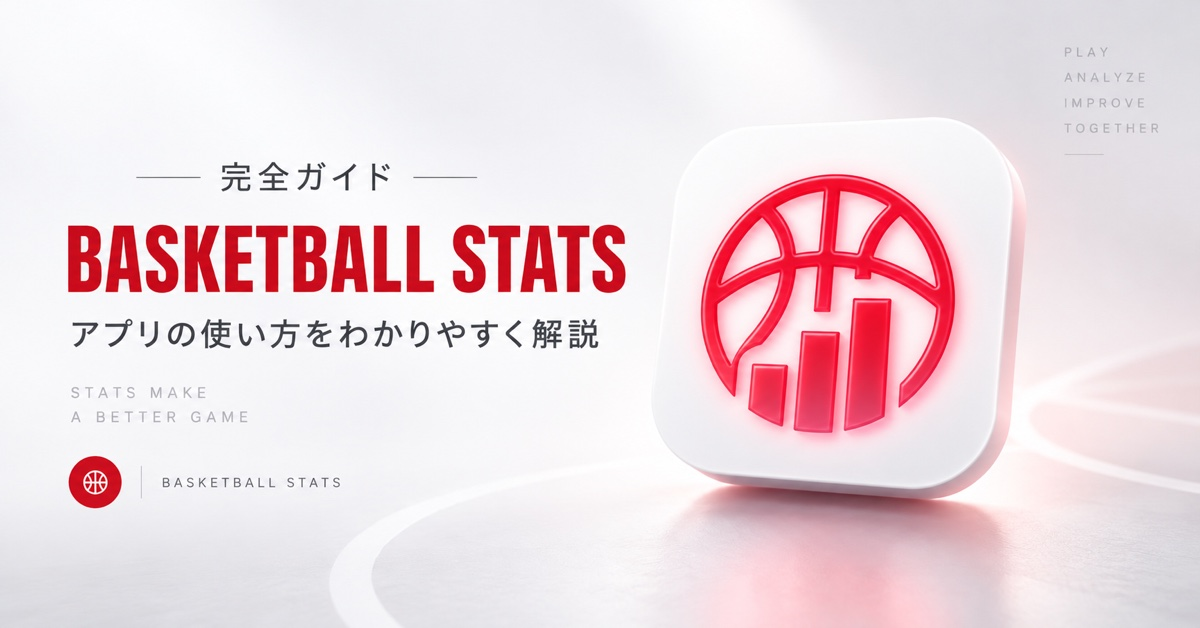
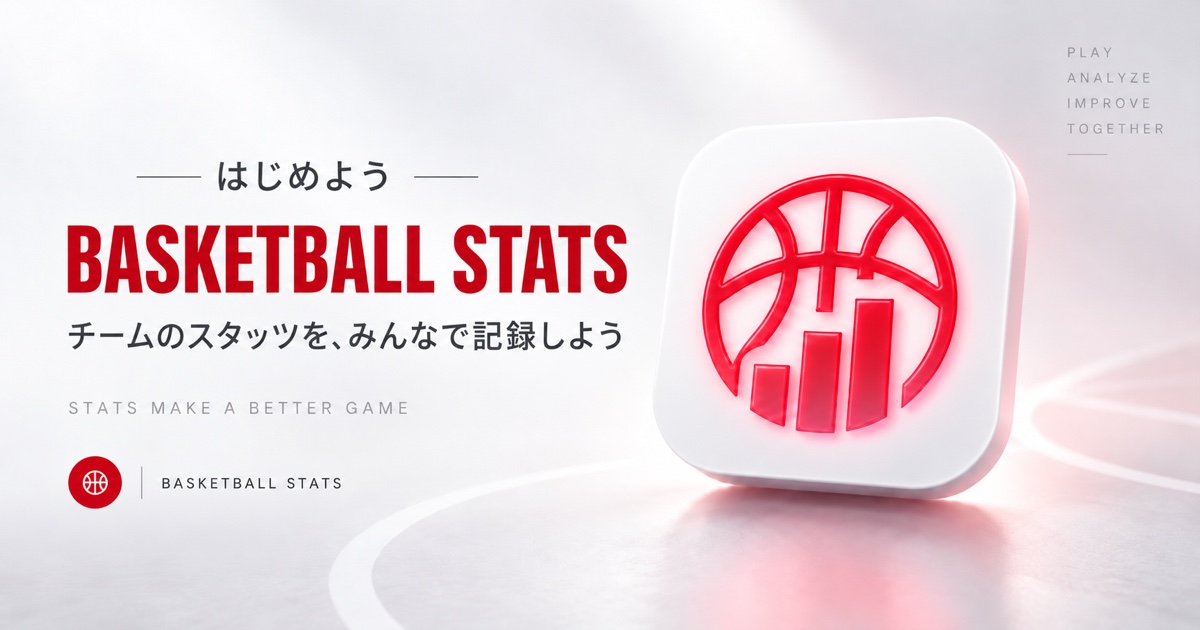
共有プレビュー画像を招待用/はじめよう用に差し替え、モバイルで出ない問題を修正
- 画像URLを新しい名前にして、LINE等に残った誤ったキャッシュを回避
- 拡張子付きのパスはindex.htmlに振り替えない(画像未配置時にHTMLが返らないように)
- トップページにog:urlを追加

diff --git a/invite.html b/invite.html
@@ -19,15 +19,15 @@
     <meta property="og:locale" content="ja_JP" />
     <meta property="og:title" content="チームに招待されています｜BASKETBALL STATS" />
     <meta property="og:description" content="リンクを開くとチームに参加できます。試合や練習のスタッツを、チームのみんなで一緒に記録しよう。" />
-    <meta property="og:image" content="https://basketball-stats-mu.vercel.app/og/og.jpg" />
+    <meta property="og:image" content="https://basketball-stats-mu.vercel.app/og/og-invite-v2.jpg" />
     <meta property="og:image:type" content="image/jpeg" />
     <meta property="og:image:width" content="1200" />
-    <meta property="og:image:height" content="628" />
-    <meta property="og:image:alt" content="BASKETBALL STATS チーム招待" />
+    <meta property="og:image:height" content="630" />
+    <meta property="og:image:alt" content="BASKETBALL STATS チーム招待 タップしてチームに参加しよう" />
     <meta name="twitter:card" content="summary_large_image" />
     <meta name="twitter:title" content="チームに招待されています｜BASKETBALL STATS" />
     <meta name="twitter:description" content="リンクを開くとチームに参加できます。試合や練習のスタッツを、チームのみんなで一緒に記録しよう。" />
-    <meta name="twitter:image" content="https://basketball-stats-mu.vercel.app/og/og.jpg" />
+    <meta name="twitter:image" content="https://basketball-stats-mu.vercel.app/og/og-invite-v2.jpg" />
     <title>チームに招待されています｜BASKETBALL STATS</title>
   </head>
   <body>

diff --git a/index.html b/index.html
@@ -17,15 +17,16 @@
     <meta property="og:locale" content="ja_JP" />
     <meta property="og:title" content="BASKETBALL STATS" />
     <meta property="og:description" content="チームのスタッツを、みんなで記録しよう。試合・練習・シュートの成績を自動で集計します。" />
-    <meta property="og:image" content="https://basketball-stats-mu.vercel.app/og/og.jpg" />
+    <meta property="og:url" content="https://basketball-stats-mu.vercel.app/" />
+    <meta property="og:image" content="https://basketball-stats-mu.vercel.app/og/og-start-v2.jpg" />
     <meta property="og:image:type" content="image/jpeg" />
     <meta property="og:image:width" content="1200" />
-    <meta property="og:image:height" content="628" />
-    <meta property="og:image:alt" content="BASKETBALL STATS" />
+    <meta property="og:image:height" content="630" />
+    <meta property="og:image:alt" content="BASKETBALL STATS はじめよう" />
     <meta name="twitter:card" content="summary_large_image" />
     <meta name="twitter:title" content="BASKETBALL STATS" />
     <meta name="twitter:description" content="チームのスタッツを、みんなで記録しよう。試合・練習・シュートの成績を自動で集計します。" />
-    <meta name="twitter:image" content="https://basketball-stats-mu.vercel.app/og/og.jpg" />
+    <meta name="twitter:image" content="https://basketball-stats-mu.vercel.app/og/og-start-v2.jpg" />
     <title>BASKETBALL STATS</title>
   </head>
   <body>
